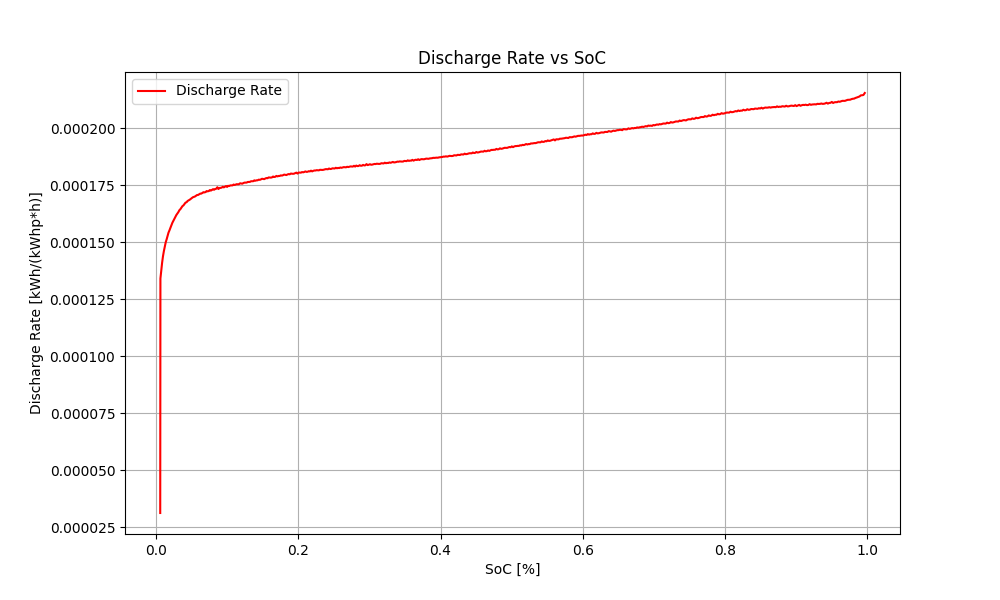
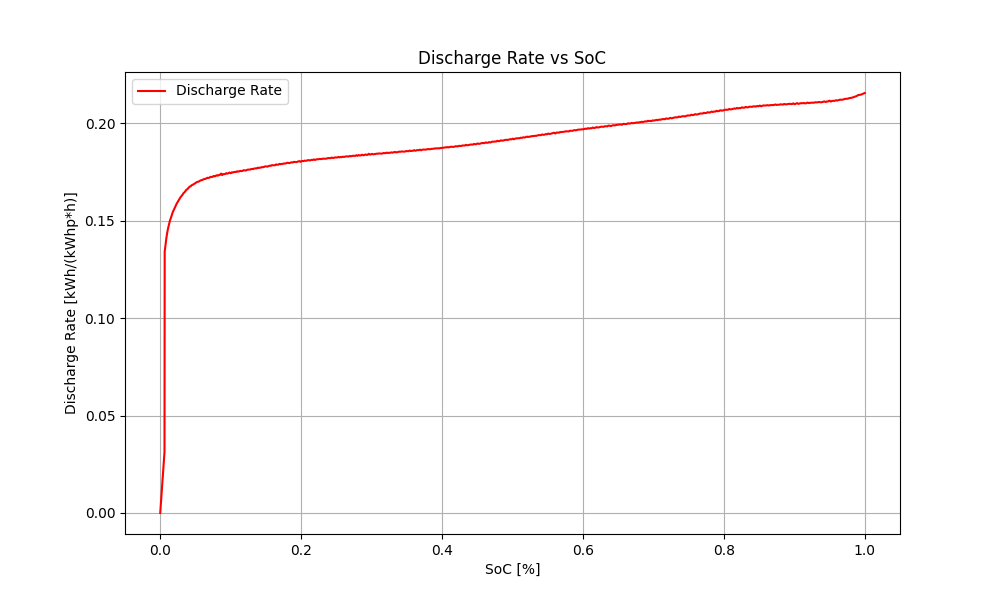
Update #8

diff --git a/BESS.py b/BESS.py
@@ -1,5 +1,5 @@
 import matplotlib.pyplot as plt
-import pymoo
+import os
 import numpy as np
 from pymoo.algorithms.moo.nsga3 import NSGA3
 from pymoo.optimize import minimize
@@ -9,6 +9,11 @@ from pymoo.operators.mutation.pm import PolynomialMutation
 from pymoo.operators.crossover.sbx import SimulatedBinaryCrossover
 from pymoo.operators.selection.tournament import TournamentSelection
 from pymoo.core.sampling import Sampling
+from revenues import discharge_rate
+from revenues import charge_rate
+from revenues import PUN
+from revenues import charge_rate_interpolated_func
+from revenues import discharge_rate_interpolated_func
 
 # FILE PATH DATA
 file_path = "BESS Data.xlsx"
@@ -36,7 +41,7 @@ class Optimizer:
         self.pop_size = pop_size
 
     def maximize_revenues(self):
-        ref_dirs = get_reference_directions("das-dennis", 1, n_partitions=24)
+        ref_dirs = get_reference_directions("das-dennis", 1,n_partitions=20) # n_partitions=48
 
         # Definire gli operatori di mutazione, crossover e selezione
         mutation = PolynomialMutation(prob=1.0 / self._objective_function.n_var, eta=20)
@@ -51,7 +56,6 @@ class Optimizer:
             pop_size=self.pop_size,
             ref_dirs=ref_dirs,
             sampling=sampling
-
         )
 
         res = minimize(
@@ -81,8 +85,6 @@ discharged_energy= [0.0]*48
 c_d_timeseries = solution.X
 soc[0] = 0.2
 
-from revenues import charge_rate_interpolated_func
-from revenues import discharge_rate_interpolated_func
 c_func = charge_rate_interpolated_func
 d_func = discharge_rate_interpolated_func
 
@@ -99,68 +101,131 @@ for index in range(48 - 1):
 
         # UPDATE SoC
     if c_d_timeseries[index] >= 0:
-        soc[index + 1] = min(1, soc[index] + charged_energy[index] / size)
+        soc[index + 1] = min(1, soc[index] + charged_energy[index]/ size)
     else:
-        soc[index + 1] = max(0, soc[index] + discharged_energy[index] / size)
+        soc[index + 1] = max(0, soc[index] + discharged_energy[index]/ size)
+
+# Creazione degli istogrammi
+time_steps = np.arange(48)
+
+# Istogramma di SoC
+plt.figure(figsize=(12, 8))
+plt.bar(time_steps, soc, color='lightblue')
+plt.title('State of Charge (SoC) [%]')
+plt.xlabel('Time step')
+plt.ylabel('SoC')
+plt.savefig(os.path.join("Plots", "SoC_hist.png"))
+plt.close()
 
 
-#
-#
-# # Plotting
-# plt.figure(figsize=(10, 6))
-#
-# # Plot for charge_rate
-# plt.plot(charge_rate['SoC [%]'], charge_rate['Charge Rate [kWh/(kWhp*h)]'], 'o', label='Charge Rate')
-# plt.plot(charge_rate['SoC [%]'], charge_rate_interpolated_func(charge_rate['SoC [%]']), '-',
-#          label='Interpolated Charge Rate')
-#
-# # Plot for discharge_rate
-# plt.plot(discharge_rate['SoC [%]'], discharge_rate['Discharge Rate [kWh/(kWhp*h)]'], 'o', color='red',
-#          label='Discharge Rate')
-# plt.plot(discharge_rate['SoC [%]'], discharge_rate_interpolated_func(discharge_rate['SoC [%]']), '-',
-#          color='green', label='Interpolated Discharge rate')
-#
-# plt.xlabel('SoC [%]')
-# plt.ylabel('Rate [kWh/(kWhp*h)]')
-# plt.title('Interpolated Functions')
-# plt.legend()
-# plt.grid(True)
-#
-# # Save the plot as a PNG file
-# if not os.path.exists("Plots"):
-#     os.makedirs("Plots")
-# plt.savefig("Plots/interpolated_functions.png")
-#
-# # Close the figure to release memory
-# plt.close()
-#
-# # Plotting for charge_rate
-# plt.figure(figsize=(10, 6))
-# plt.plot(charge_rate['SoC [%]'], charge_rate['Charge Rate [kWh/(kWhp*h)]'], label='Charge Rate')
-# plt.xlabel('SoC [%]')
-# plt.ylabel('Charge Rate [kWh/(kWhp*h)]')
-# plt.title('Charge Rate vs SoC')
-# plt.legend()
-# plt.grid(True)
-#
-# # Save the plot as a PNG file
-# plt.savefig("Plots/charge_rate_plot.png")
-# plt.close()
-#
-# # Plotting for discharge_rate
-# plt.figure(figsize=(10, 6))
-# plt.plot(discharge_rate['SoC [%]'], discharge_rate['Discharge Rate [kWh/(kWhp*h)]'], color='red',
-#          label='Discharge Rate')
-# plt.xlabel('SoC [%]')
-# plt.ylabel('Discharge Rate [kWh/(kWhp*h)]')
-# plt.title('Discharge Rate vs SoC')
-# plt.legend()
-# plt.grid(True)
-#
-# # Save the plot as a PNG file
-# plt.savefig("Plots/discharge_rate_plot.png")
-# plt.close()
+# Istogramma di charged energy
+plt.figure(figsize=(12, 8))
+plt.bar(time_steps, charged_energy, color='g')
+plt.title('Charged Energy')
+plt.xlabel('Time step')
+plt.ylabel('Charged Energy')
+plt.savefig(os.path.join("Plots", "Charged_Energy_hist.png"))
+plt.close()
+
+# Istogramma di discharged energy
+plt.figure(figsize=(12, 8))
+plt.bar(time_steps, discharged_energy, color='r')
+plt.title('Discharged Energy')
+plt.xlabel('Time step')
+plt.ylabel('Discharged Energy')
+plt.savefig(os.path.join("Plots", "Discharged_Energy_hist.png"))
+plt.close()
 
 
+# Line plot dei valori PUN (terza colonna del DataFrame)
+pun_values = PUN.iloc[:48, 2]  # Estrazione della terza colonna (indice 2)
+plt.figure(figsize=(12, 8))
+plt.plot(pun_values, marker='o', color='b')
+plt.title('PUN Values')
+plt.xlabel('Time step')
+plt.ylabel('PUN Value')
+plt.savefig(os.path.join("Plots", "PUN_values_plot.png"))
+plt.close()
+
+# Plotting
+plt.figure(figsize=(10, 6))
+
+# Plot for charge_rate
+plt.plot(charge_rate['SoC [%]'], charge_rate['Charge Rate [kWh/(kWhp*h)]'], 'o', label='Charge Rate')
+plt.plot(charge_rate['SoC [%]'], charge_rate_interpolated_func(charge_rate['SoC [%]']), '-',
+         label='Interpolated Charge Rate')
+
+# Plot for discharge_rate
+plt.plot(discharge_rate['SoC [%]'], discharge_rate['Discharge Rate [kWh/(kWhp*h)]'], 'o', color='red',
+         label='Discharge Rate')
+plt.plot(discharge_rate['SoC [%]'], discharge_rate_interpolated_func(discharge_rate['SoC [%]']), '-',
+         color='green', label='Interpolated Discharge rate')
+
+plt.xlabel('SoC [%]')
+plt.ylabel('Rate [kWh/(kWhp*h)]')
+plt.title('Interpolated Functions')
+plt.legend()
+plt.grid(True)
+
+# Save the plot as a PNG file
+if not os.path.exists("Plots"):
+    os.makedirs("Plots")
+plt.savefig("Plots/interpolated_functions.png")
+
+# Close the figure to release memory
+plt.close()
+
+# Plotting for charge_rate
+plt.figure(figsize=(10, 6))
+plt.plot(charge_rate['SoC [%]'], charge_rate['Charge Rate [kWh/(kWhp*h)]'], label='Charge Rate')
+plt.xlabel('SoC [%]')
+plt.ylabel('Charge Rate [kWh/(kWhp*h)]')
+plt.title('Charge Rate vs SoC')
+plt.legend()
+plt.grid(True)
+
+# Save the plot as a PNG file
+plt.savefig("Plots/charge_rate_plot.png")
+plt.close()
+
+# Plotting for discharge_rate
+plt.figure(figsize=(10, 6))
+plt.plot(discharge_rate['SoC [%]'], discharge_rate['Discharge Rate [kWh/(kWhp*h)]'], color='red',
+         label='Discharge Rate')
+plt.xlabel('SoC [%]')
+plt.ylabel('Discharge Rate [kWh/(kWhp*h)]')
+plt.title('Discharge Rate vs SoC')
+plt.legend()
+plt.grid(True)
+
+# Save the plot as a PNG file
+plt.savefig("Plots/discharge_rate_plot.png")
+plt.close()
+
+num_values = 24
+time_steps_24 = time_steps[:num_values]
+charged_energy_24 = charged_energy[:num_values]
+discharged_energy_24 = discharged_energy[:num_values]
+pun_values_24 = PUN.iloc[:num_values, 2]
+
+# Istogramma combinato di charged energy e discharged energy
+fig, ax1 = plt.subplots(figsize=(12, 8))
+width = 0.4
+ax1.bar(time_steps_24 - width / 2, charged_energy_24, width=width, color='g', label='Charged Energy [kWh]')
+ax1.bar(time_steps_24 + width / 2, discharged_energy_24, width=width, color='r', label='Discharged Energy [kWh]')
+ax1.set_xlabel('Time step')
+ax1.set_ylabel('Energy [kWh]')
+ax1.set_title('Charged and Discharged Energy with PUN')
+ax1.legend(loc='upper left')
+
+# Aggiungi un secondo asse y per i valori PUN
+ax2 = ax1.twinx()
+ax2.plot(time_steps_24, pun_values_24, marker='o', color='navy', label='PUN [Euro/MWh]')
+ax2.set_ylabel('PUN Value')
+ax2.legend(loc='upper right')
+
+fig.tight_layout()
+plt.savefig(os.path.join("Plots", "Charged_and_Discharged_Energy_with_PUN_24.png"))
+plt.close()
 
 

diff --git a/revenues.py b/revenues.py
@@ -122,16 +122,22 @@ class Revenues(Problem):
                     self.discharged_energy[index, col] = self.c_d_timeseries[index, col] * size
 
                 # UPDATE SoC
-                if self.c_d_timeseries[index, 0] >= 0:
-                    self.soc[index + 1, col] = min(1, self.soc[index, col] + self.charged_energy[index, col] / size)
+                if self.c_d_timeseries[index, col] >= 0:
+                    self.soc[index + 1, col] = min(1, self.soc[index, col] + self.charged_energy[index, col]/size)
                 else:
-                    self.soc[index + 1, col] = max(0, self.soc[index, col] + self.discharged_energy[index, col] / size)
+                    self.soc[index + 1, col] = max(0, self.soc[index, col] + self.discharged_energy[index, col]/size)
+
+        weights = np.ones(time_window)
+        weights[:24] = 1  # Pesi più alti per i primi 24 valori
 
         F_values = []
-        for i in range(self.soc.shape[1]):
-            revenues = -self.discharged_energy[:, i] * self.PUN_timeseries - self.charged_energy[:,
-                                                                             i] * self.PUN_timeseries
-            F_values.append(np.array([-revenues.sum()]).reshape(-1, 1))
+        for i in range(self.pop_size):
+            revenues = (
+                -(self.discharged_energy[:, i] * self.PUN_timeseries / 1000)
+                - (self.charged_energy[:, i] * self.PUN_timeseries / 1000)
+            )
+            weighted_revenues = revenues * weights  # Applica i pesi
+            F_values.append(np.array([-weighted_revenues.sum()]).reshape(-1, 1))
 
         out["F"] = np.concatenate(F_values, axis=1)
 
